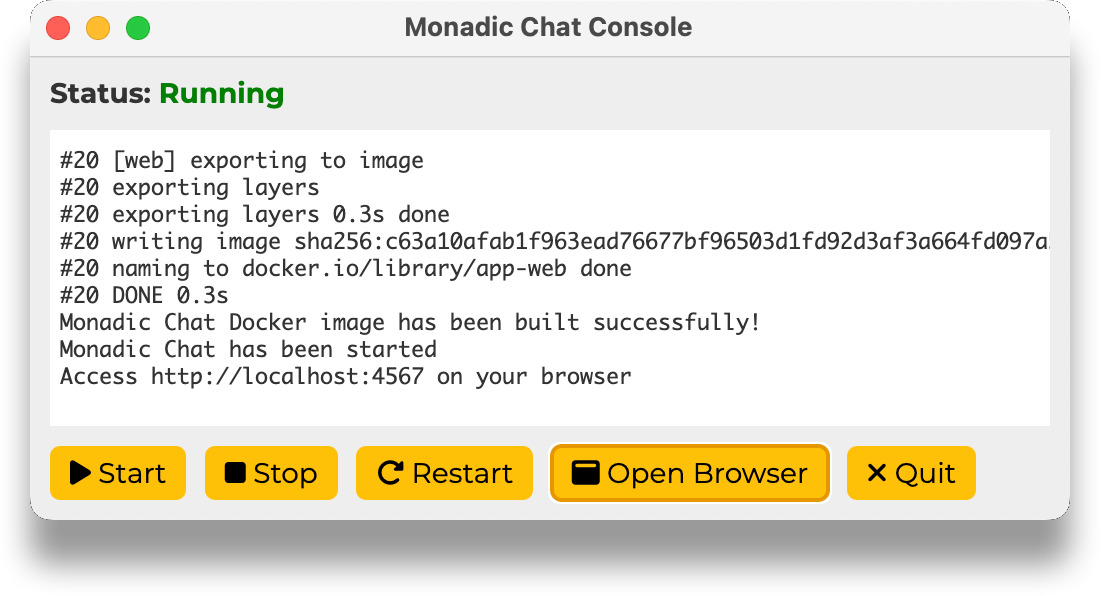
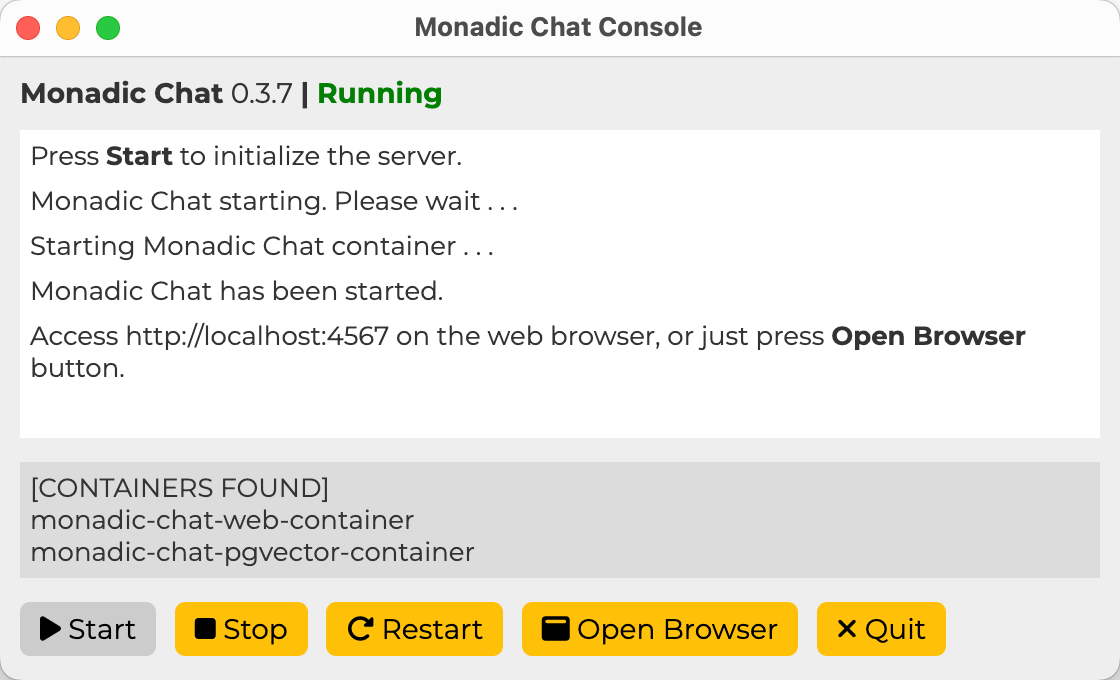
Many improvements

diff --git a/CHANGELOG.md b/CHANGELOG.md
@@ -1,5 +1,7 @@
 ### Change Log
 
+- [January, 2024] Mac/Win Monadic Chat Console UI improved
+- [January, 2024] Image understanging feature
 - [December, 2023] Voice Interpreter app added
 - [December, 2023] More responsive text-to-speech in auto-speech mode
 - [December, 2023] Language Practice Plus app updated
